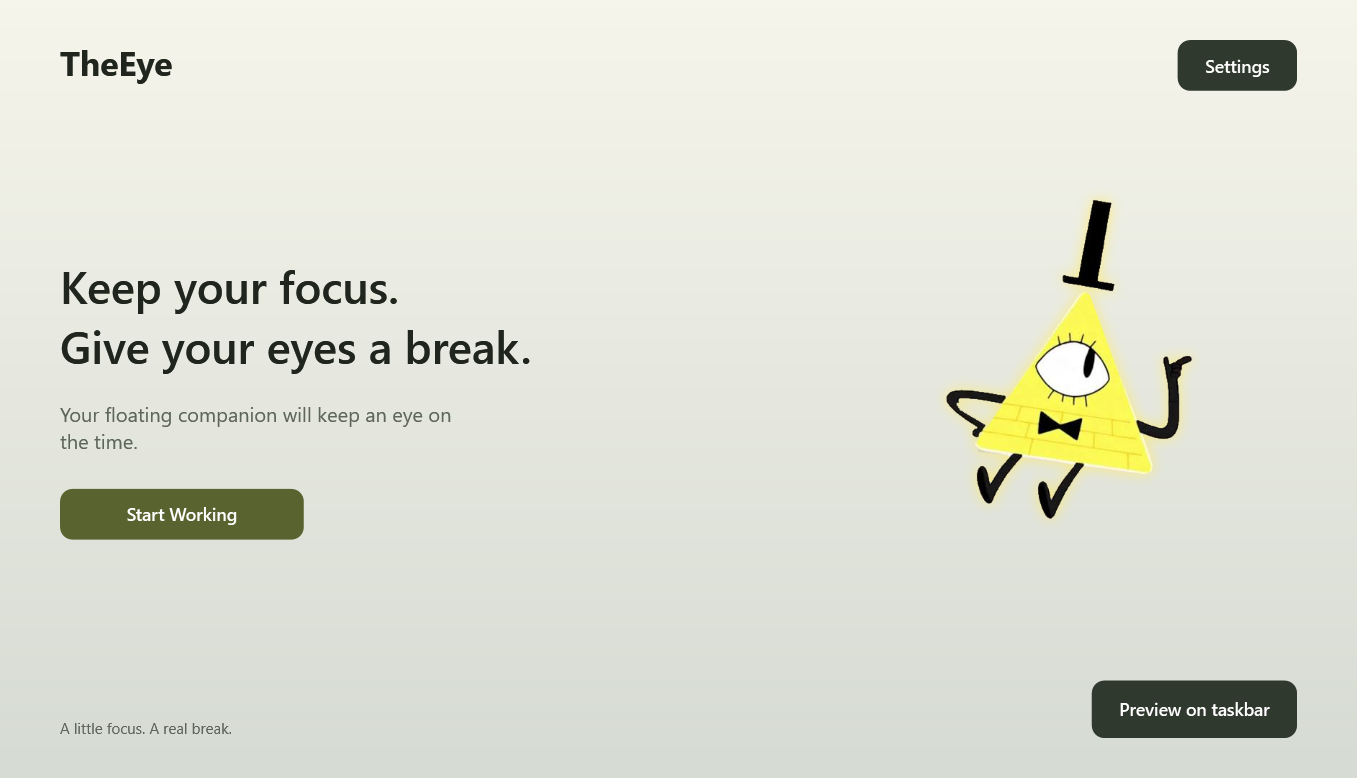
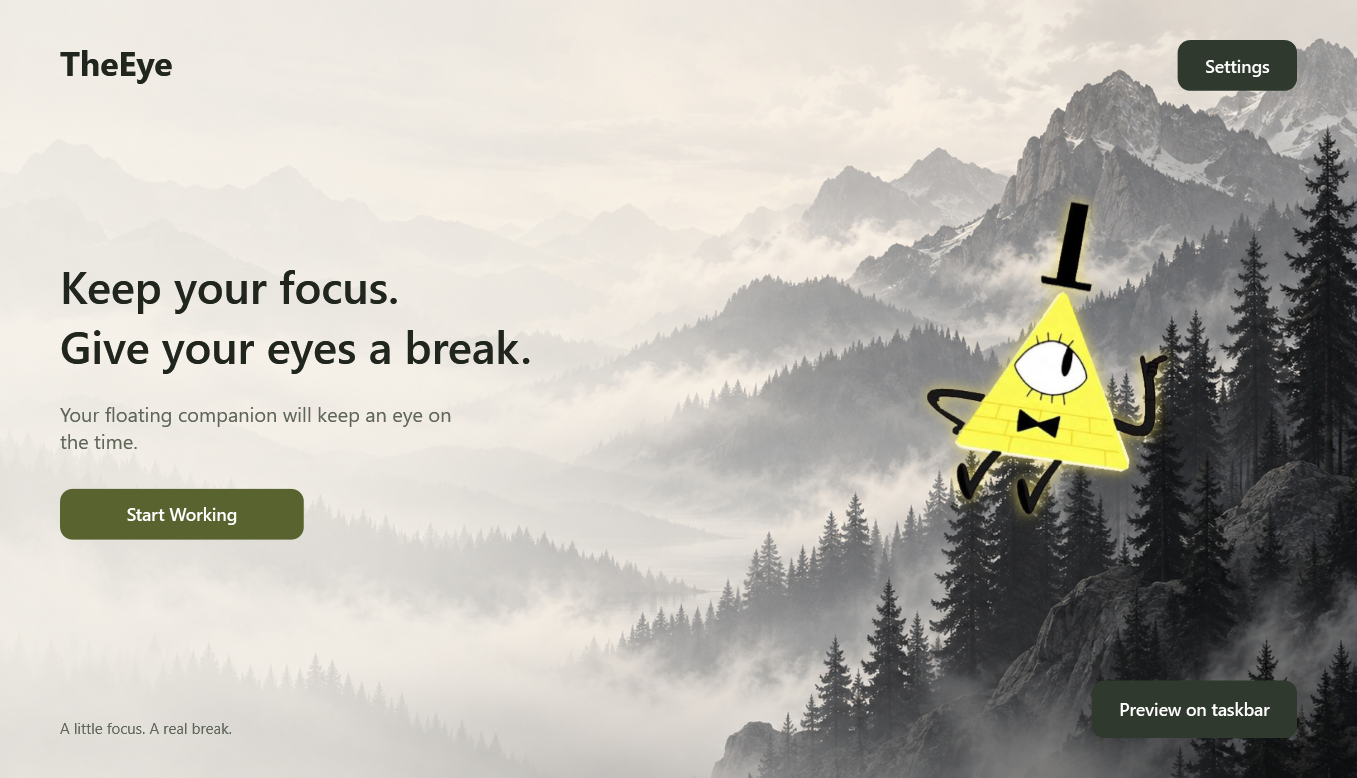
fix: limit companion to timed reminders and restore mountain backdrop

diff --git a/src/TheEye/Views/MainWindow.xaml b/src/TheEye/Views/MainWindow.xaml
@@ -5,6 +5,11 @@
  WindowStartupLocation="CenterScreen" Background="#F6F5EB">
  <Grid>
   <Image Source="{Binding PetImage}" Stretch="UniformToFill" RenderOptions.BitmapScalingMode="HighQuality"/>
+  <Viewbox Stretch="Uniform" IsHitTestVisible="False">
+   <Canvas Width="1920" Height="1080">
+    <Image Source="{Binding CompanionImage}" Canvas.Left="1278" Canvas.Top="248" Width="424" Height="515" RenderOptions.BitmapScalingMode="HighQuality"/>
+   </Canvas>
+  </Viewbox>
   <Grid Margin="48,32">
    <Grid.RowDefinitions><RowDefinition Height="60"/><RowDefinition/><RowDefinition Height="46"/></Grid.RowDefinitions>
    <TextBlock Text="TheEye" FontSize="27" FontWeight="Bold" Foreground="#20261D"/>

diff --git a/src/TheEye/Views/PetOverlayWindow.xaml.cs b/src/TheEye/Views/PetOverlayWindow.xaml.cs
@@ -3,6 +3,7 @@ using System.Windows;
 using System.Windows.Interop;
 using System.Windows.Media;
 using System.Windows.Media.Animation;
+using System.Windows.Threading;
 using TheEye.Core;
 using TheEye.Services;
 using TheEye.ViewModels;
@@ -16,6 +17,9 @@ public partial class PetOverlayWindow : Window
     private readonly AppSettings _settings;
     private readonly TranslateTransform _motion = new();
     private bool _running;
+    private readonly DispatcherTimer _warningTimer = new() { Interval = TimeSpan.FromSeconds(6) };
+    private int _motionGeneration;
+    private bool _finitePass;
     public PetOverlayWindow(PetService petService, PetDefinition pet, AppSettings settings)
     {
         InitializeComponent();
@@ -24,6 +28,12 @@ public partial class PetOverlayWindow : Window
         _settings = settings;
         PetImage.RenderTransform = _motion;
         Bubble.RenderTransform = _motion;
+        _warningTimer.Tick += (_, _) =>
+        {
+            _warningTimer.Stop();
+            if (_settings.AnimationEnabled) Bubble.Visibility = Visibility.Collapsed;
+            else HidePet();
+        };
         Closed += (_, _) => StopMotion();
     }
     public void ShowWorkingCompanion()
@@ -33,12 +43,14 @@ public partial class PetOverlayWindow : Window
     }
     public void ShowWarning(string message, string animation, bool autoHide)
     {
-        EnsureVisible();
+        if (autoHide || _finitePass) StopMotion();
+        EnsureVisible(autoHide);
         BubbleText.Text = message;
         Bubble.Visibility = Visibility.Visible;
+        if (autoHide) _warningTimer.Start();
     }
     public void ShowCountdown(TimeSpan remaining) => ShowWarning(MainViewModel.FormatRemaining(remaining), "countdown", false);
-    private void EnsureVisible()
+    private void EnsureVisible(bool finitePass = false)
     {
         if (_running && IsVisible) return;
         PetImage.Source = _petService.LoadFrame(_pet, "walk")
@@ -47,18 +59,22 @@ public partial class PetOverlayWindow : Window
         PositionAtTaskbar();
         UpdateLayout();
         _running = true;
+        _finitePass = finitePass;
         var travel = Math.Max(0, ActualWidth - PetImage.Width - 48);
         _motion.X = travel;
         _motion.Y = 0;
         Opacity = 1;
         if (!_settings.AnimationEnabled) return;
         var speed = Math.Clamp(_settings.AnimationSpeed, 0.5, 2);
-        _motion.BeginAnimation(TranslateTransform.XProperty, new DoubleAnimation(travel, 24, TimeSpan.FromSeconds(18 / speed))
+        var movement = new DoubleAnimation(travel, 24, TimeSpan.FromSeconds(18 / speed))
         {
             AutoReverse = true,
-            RepeatBehavior = RepeatBehavior.Forever,
+            RepeatBehavior = finitePass ? new RepeatBehavior(1) : RepeatBehavior.Forever,
             EasingFunction = new SineEase { EasingMode = EasingMode.EaseInOut }
-        });
+        };
+        var generation = ++_motionGeneration;
+        if (finitePass) movement.Completed += (_, _) => { if (_motionGeneration == generation) HidePet(); };
+        _motion.BeginAnimation(TranslateTransform.XProperty, movement);
         _motion.BeginAnimation(TranslateTransform.YProperty, new DoubleAnimation(0, -12, TimeSpan.FromSeconds(2.8 / speed))
         {
             AutoReverse = true,
@@ -71,6 +87,9 @@ public partial class PetOverlayWindow : Window
     public void HidePet() { StopMotion(); Hide(); }
     private void StopMotion()
     {
+        _motionGeneration++;
+        _warningTimer.Stop();
+        _finitePass = false;
         _running = false;
         _motion.BeginAnimation(TranslateTransform.XProperty, null);
         _motion.BeginAnimation(TranslateTransform.YProperty, null);

diff --git a/src/TheEye/UiVerification.cs b/src/TheEye/UiVerification.cs
@@ -49,6 +49,12 @@ public partial class App
             Capture(_previewOverlay, Path.Combine(directory, "taskbar-overlay.png"));
             StopPreview();
             _session!.StartWorking();
+            Check(_overlay is { IsVisible: false }, "No companion during ordinary work");
+            OpenAnimationPreview();
+            StopPreview();
+            Check(_overlay is { IsVisible: false }, "Ending preview does not enable constant floating");
+            RecreateOverlay();
+            Check(_overlay is { IsVisible: false }, "Changing settings does not enable constant floating");
             _session.BeginVoluntaryRest();
             await Task.Delay(300);
             Check(_mainWindow!.WindowState == WindowState.Minimized, "Main window minimizes for rest");
@@ -61,6 +67,38 @@ public partial class App
             _session.Stop();
 
             var clock = new VerificationClock();
+            var warningSession = new SessionManager(clock, SessionOptions.Default);
+            warningSession.WarningRaised += OnWarningRaised;
+            warningSession.SnapshotChanged += OnSnapshotChanged;
+            warningSession.StartWorking();
+            clock.MonotonicNow = TimeSpan.FromMinutes(15);
+            warningSession.Tick();
+            Check(_overlay is { IsVisible: true }, "Five-minute warning appears");
+            Check(((TextBlock)_overlay!.FindName("BubbleText")).Text == "5 min to rest", "Five-minute message is correct");
+            await Task.Delay(TimeSpan.FromSeconds(36 / Math.Clamp(Settings.AnimationSpeed, 0.5, 2) + 1));
+            Check(!_overlay.IsVisible, "Five-minute pass hides automatically after left and right");
+            warningSession.Tick();
+            Check(!_overlay.IsVisible, "Ordinary timer ticks do not replay five-minute warning");
+            clock.MonotonicNow = TimeSpan.FromMinutes(19);
+            warningSession.Tick();
+            Check(_overlay.IsVisible, "Final minute appears");
+            Check(((TextBlock)_overlay.FindName("BubbleText")).Text == "01:00", "Countdown begins at 60 seconds");
+            clock.MonotonicNow += TimeSpan.FromSeconds(1);
+            warningSession.Tick();
+            Check(((TextBlock)_overlay.FindName("BubbleText")).Text == "00:59", "Countdown decrements to 59 seconds");
+            clock.MonotonicNow += TimeSpan.FromSeconds(58);
+            warningSession.Tick();
+            Check(((TextBlock)_overlay.FindName("BubbleText")).Text == "00:01", "Countdown reaches one second");
+            clock.MonotonicNow += TimeSpan.FromSeconds(1);
+            warningSession.Tick();
+            Check(!_overlay.IsVisible && _restWindow is { IsVisible: true }, "At zero the overlay yields to rest");
+            _restWindow!.AllowClose = true;
+            _restWindow.Close();
+            _restWindow = null;
+            _sessionTimer.Stop();
+            warningSession.WarningRaised -= OnWarningRaised;
+            warningSession.SnapshotChanged -= OnSnapshotChanged;
+            clock.MonotonicNow = TimeSpan.Zero;
             var testSession = new SessionManager(clock, SessionOptions.Development);
             testSession.StartWorking();
             clock.MonotonicNow = TimeSpan.FromSeconds(31);

diff --git a/src/TheEye/App.xaml.cs b/src/TheEye/App.xaml.cs
@@ -72,7 +72,7 @@ public partial class App : System.Windows.Application
         _session.WarningRaised += OnWarningRaised;
         _sessionTimer.Tick += (_, _) => _session.Tick();
 
-        var mainViewModel = new MainViewModel(_session, _petService.LoadFrame(_pet, "idle"));
+        var mainViewModel = new MainViewModel(_session, _petService.LoadFrame(_pet, "landscape"), _petService.LoadFrame(_pet, "walk"));
         _mainWindow = new MainWindow { DataContext = mainViewModel };
         MainWindow = _mainWindow;
         _overlay = new PetOverlayWindow(_petService, _pet, Settings);
@@ -184,7 +184,8 @@ public partial class App : System.Windows.Application
         _previewOverlay?.HidePet();
         _previewOverlay?.Close();
         _previewOverlay = null;
-        if (_session?.State == SessionState.Working) _overlay?.ShowWorkingCompanion();
+        if (_session?.Snapshot is { State: SessionState.Working, OneMinuteWarningRaised: true } snapshot)
+            _overlay?.ShowCountdown(snapshot.Remaining);
     }
 
     public void ShowRestWindow() => BringRestForward();
@@ -316,7 +317,7 @@ public partial class App : System.Windows.Application
         if (stateChanged && snapshot.State == SessionState.Working)
         {
             StopPreview();
-            _overlay?.ShowWorkingCompanion();
+            _overlay?.HidePet();
         }
 
         if (snapshot.State == SessionState.Working && snapshot.OneMinuteWarningRaised)
@@ -339,7 +340,7 @@ public partial class App : System.Windows.Application
 
         if (warning == SessionWarning.FiveMinutesRemaining)
         {
-            _overlay.ShowWarning(_developmentTimers ? "15 seconds left!" : "5 minutes left!", "warning", autoHide: true);
+            _overlay.ShowWarning(_developmentTimers ? "15 seconds to rest" : "5 min to rest", "warning", autoHide: true);
         }
         else
         {
@@ -401,9 +402,9 @@ public partial class App : System.Windows.Application
         _overlay?.HidePet();
         _overlay?.Close();
         _overlay = new PetOverlayWindow(_petService, _pet, Settings);
-        if (_session?.State == SessionState.Working)
+        if (_session?.Snapshot is { State: SessionState.Working, OneMinuteWarningRaised: true } snapshot)
         {
-            _overlay.ShowWorkingCompanion();
+            _overlay.ShowCountdown(snapshot.Remaining);
         }
     }
 

diff --git a/tests/TheEye.Tests/SessionManagerTests.cs b/tests/TheEye.Tests/SessionManagerTests.cs
@@ -37,6 +37,35 @@ public sealed class SessionManagerTests
     }
 
     [Fact]
+    public void WarningsOnlyAtFiveAndOneMinutesAndCountdownReachesRest()
+    {
+        var (manager, clock) = Create();
+        var warnings = new List<SessionWarning>();
+        manager.WarningRaised += warnings.Add;
+        manager.StartWorking();
+        clock.Advance(TimeSpan.FromMinutes(15) - TimeSpan.FromSeconds(1));
+        manager.Tick();
+        Assert.Empty(warnings);
+        clock.Advance(TimeSpan.FromSeconds(1));
+        manager.Tick();
+        Assert.Equal([SessionWarning.FiveMinutesRemaining], warnings);
+        clock.Advance(TimeSpan.FromMinutes(4) - TimeSpan.FromSeconds(1));
+        manager.Tick();
+        Assert.Single(warnings);
+        clock.Advance(TimeSpan.FromSeconds(1));
+        for (var remaining = 60; remaining > 0; remaining--)
+        {
+            manager.Tick();
+            Assert.Equal(SessionState.Working, manager.State);
+            Assert.Equal(TimeSpan.FromSeconds(remaining), manager.Snapshot.Remaining);
+            clock.Advance(TimeSpan.FromSeconds(1));
+        }
+        Assert.Equal([SessionWarning.FiveMinutesRemaining, SessionWarning.OneMinuteRemaining], warnings);
+        manager.Tick();
+        Assert.Equal(SessionState.MandatoryRestLocked, manager.State);
+    }
+
+    [Fact]
     public void OneMinuteWarningFiresOnceAndSuppressesLateFiveMinuteWarning()
     {
         var (manager, clock) = Create();

diff --git a/src/TheEye/ViewModels/MainViewModel.cs b/src/TheEye/ViewModels/MainViewModel.cs
@@ -8,10 +8,11 @@ public sealed class MainViewModel : ObservableObject
 {
     private readonly SessionManager _session;
 
-    public MainViewModel(SessionManager session, BitmapSource? petImage)
+    public MainViewModel(SessionManager session, BitmapSource? petImage, BitmapSource? companionImage)
     {
         _session = session;
         PetImage = petImage;
+        CompanionImage = companionImage;
         StartWorkingCommand = new RelayCommand(() => _session.StartWorking(), () => IsIdle);
         RestingNowCommand = new RelayCommand(() => _session.BeginVoluntaryRest(), () => IsWorking);
         RestedCommand = new RelayCommand(() => _session.CompleteRest(), () => CanCompleteRest);
@@ -21,6 +22,7 @@ public sealed class MainViewModel : ObservableObject
     }
 
     public BitmapSource? PetImage { get; }
+    public BitmapSource? CompanionImage { get; }
 
     public RelayCommand StartWorkingCommand { get; }
 

diff --git a/README.md b/README.md
@@ -10,8 +10,12 @@ Right-click the running taskbar icon to pin it.
 
 ## Use
 
-- Start Working begins a fresh 20-minute session. The companion floats slowly
-  left and right above the taskbar, with a soft fade and vertical bob.
+- Start Working begins a fresh 20-minute session with the companion hidden.
+- At five minutes remaining it shows “5 min to rest” for six seconds, makes
+  one slow left-and-right pass, then hides. The pass takes 36 seconds at
+  default speed and respects the animation-speed slider.
+- At one minute remaining it returns with a live 01:00 to 00:01 countdown;
+  at zero the rest screen replaces it. It stays hidden between these reminders.
 - Preview on taskbar, in Settings or the main window, runs the actual desktop
   animation for 25 seconds without changing the session.
 - Resting Now minimizes the main window and opens an opaque ivory rest scene.
@@ -30,7 +34,9 @@ reconciles on resume. Background applications are unaffected.
 
 ## Artwork and display
 
-Main and rest canvases are opaque 1920 x 1080 PNGs. The sprite is a 1920 x 1080
+The main background uses a generated mountain/pine-forest scene at its native
+1672 x 941 resolution, with the approved sprite layered separately. Rest is
+an opaque 1920 x 1080 PNG. The sprite is a 1920 x 1080
 RGBA PNG with a golden aura. Only transparent padding is cropped at load time;
 source images are never downsampled. Rest fills physical monitor bounds and was
 verified at 1920 x 1080 with 125% Windows scaling. Main is resizable/maximizable.
@@ -51,8 +57,8 @@ dotnet run --project src/TheEye
 powershell -File tools/publish.ps1
 ```
 
-The publisher checks every manifest frame exists, matches its source hash, is
-1920 x 1080, and that the sprite has actual transparent background pixels.
+The publisher checks every manifest frame exists, matches its source hash,
+meets its expected dimensions, and that the sprite has actual transparency.
 
 - `--dev-timers`: 30-second work and 10-second rest.
 - `--preview`: immediate taskbar preview.

diff --git a/artwork/README.md b/artwork/README.md
@@ -21,6 +21,23 @@ The sprite's transparent padding is cropped by the manifest's sourceRect at
 load time, preserving every retained source pixel. UI size and Windows DPI
 scaling affect display only, not source asset resolution.
 
+The mountain background was successfully generated using the built-in tool
+and is saved unchanged at native 1672 x 941 resolution in
+`src/TheEye/Pets/Triangle/Assets/mountains.png`. The main view layers the
+unchanged approved sprite over it; float.png was not edited.
+
+Final landscape prompt: layered grayscale mountain peaks and tall pine forest
+silhouettes in pale atmospheric mist; painterly illustration, charcoal/silver
+and ivory fog; light left side for dark UI text, detailed forest on the right;
+no characters, symbols, text or UI; landscape, highest native quality.
+
+The requested meditation edit was attempted using the built-in tool with the
+original reference, preserving its 2D style, triangle body, eye, hat, bow tie,
+limbs and glow, changing only to a closed-eye cross-legged levitation pose on
+an ivory background. The service returned output moderation_blocked / other,
+request b7d22d57-8943-4707-8601-08304194dd9b. No specific cause was provided.
+The existing rest image remains in use; no generated meditation image is claimed.
+
 Attempted built-in prompt set: use the attached yellow triangle identity,
 preserve its eye, brick pattern, hat, bow tie, black limbs and golden glow;
 make a misty forest main illustration, an ivory resting illustration, and one
